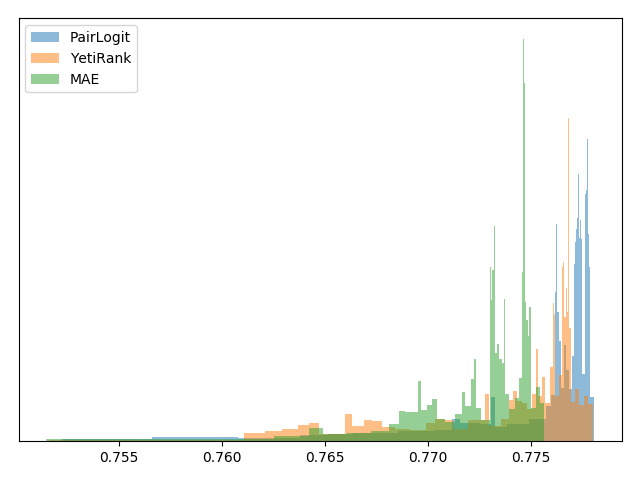
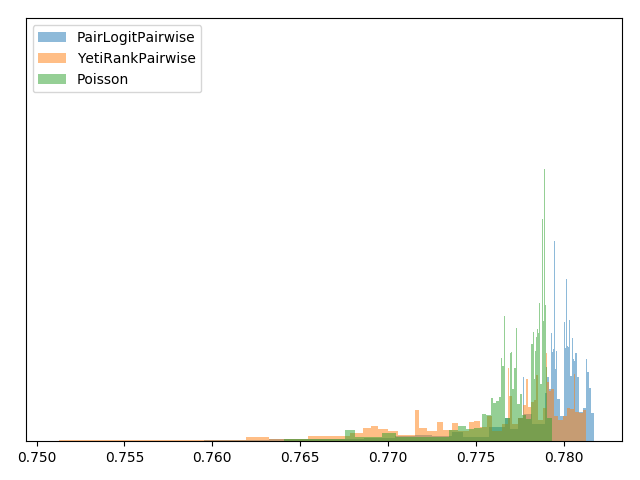
Report 3. IMAT + more metrics

diff --git a/practice_1/main.py b/practice_1/main.py
@@ -1,7 +1,7 @@
 #!/usr/bin/env python3.7
 import csv
 import catboost
-# from catboost import CatBoost, MetricVisualizer, CatBoostClassifier
+from catboost import CatBoost, MetricVisualizer, CatBoostClassifier
 from sklearn.model_selection import train_test_split
 import itertools
 import json
@@ -542,16 +542,12 @@ if __name__ == "__main__":
 
     def plot_all_ndcg():
         fig = plt.gcf()
-        model = CatBoostClassifier()
-        model.load_model('data/PairLogit.cbm')
-        plot_equal_area_bins_hist(np.array(eval_model(model)), range=(0.75, 1), alpha=0.5)
-        model = CatBoostClassifier()
-        model.load_model('data/YetiRank.cbm')
-        plot_equal_area_bins_hist(np.array(eval_model(model)), range=(0.75, 1), alpha=0.5)
-        model = CatBoostClassifier()
-        model.load_model('data/MAE.cbm')
-        plot_equal_area_bins_hist(np.array(eval_model(model)), range=(0.75, 1), alpha=0.5)
-        plt.legend(['PairLogit', 'YetiRank', 'MAE'])
+        model_names = ['PairLogit', 'PairLogitPairwise', 'YetiRank', 'YetiRankPairwise', 'MAE', 'Poisson', 'RMSE']
+        for name in model_names:
+            model = CatBoostClassifier()
+            model.load_model(f'data/{name}.cbm')
+            plot_equal_area_bins_hist(np.array(eval_model(model)), range=(0.75, 1), alpha=0.5)
+        plt.legend(model_names)
         plt.show()
         plt.draw()
         fig.savefig('imat2009_ndcg@20.png')
@@ -559,21 +555,29 @@ if __name__ == "__main__":
 
 
     # split_imat_learning_to_catboost()
-    make_dataset("data/task2.tsv")
+    # make_dataset("data/task2.tsv")
 
-    # model = CatBoost({'loss_function': 'PairLogit', 'custom_metric': ['NDCG:top=20']})
+    # model = CatBoost({'loss_function': 'PairLogitPairwise', 'custom_metric': ['NDCG:top=20']})
     # fit_model(model)
-    # model.save_model('data/PairLogit.cbm')
+    # model.save_model('data/PairLogitPairwise.cbm')
     #
-    # model = CatBoost({'loss_function': 'YetiRank', 'custom_metric': ['NDCG:top=20']})
+    # model = CatBoost({'loss_function': 'YetiRankPairwise', 'custom_metric': ['NDCG:top=20']})
     # fit_model(model)
-    # model.save_model('data/YetiRank.cbm')
-    #
+    # model.save_model('data/YetiRankPairwise.cbm')
+
     # model = CatBoost({'loss_function': 'MAE', 'custom_metric': ['NDCG:top=20']})
     # fit_model(model)
     # model.save_model('data/MAE.cbm')
 
-    # plot_all_ndcg()
+    # model = CatBoost({'loss_function': 'Poisson', 'custom_metric': ['NDCG:top=20']})
+    # fit_model(model)
+    # model.save_model('data/Poisson.cbm')
+
+    # model = CatBoost({'loss_function': 'RMSE', 'custom_metric': ['NDCG:top=20']})
+    # fit_model(model)
+    # model.save_model('data/RMSE.cbm')
+
+    plot_all_ndcg()
     # task2()
 
     # imat_test_to_catboost()

diff --git a/report_3.md b/report_3.md
@@ -1,0 +1,34 @@
+# Машинное обучение ранжированию (LETOR)
+
+## Обучение модели ранжирования на данных [“Интернет-математика 2009”](https://academy.yandex.ru/events/data_analysis/grant2009/)
+
+Данные представляли собой пары запрос-документ с идентификатором запроса, 245 неизвестными численными признаками и значением релевантности этой пары.
+
+Модель обучалась с помощью библиотеки [CatBoost](https://catboost.ai).
+
+Сперва данные были разбиты на три части:
+* 45% train, использованные для обучения
+* 5% validate, для преждевременной остановки при обучении модели
+* 50% holdout, по которым выбиралась лучшая модель
+
+Попробовал семь метрик:
+* три поточечные: MAE, Poisson и RMSE
+* две pairwise: PairLogit и PairLogitPairwise
+* две groupwise: YetiRank и YetiRankPairwise
+
+Значения NDCG@20 обученных моделей, посчитанные на holdout сете:
+
+| Метрика, по которой обучалась модель | Среднее | Медиана |
+|--------------------------------------|---------|---------|
+| MAE                                  | 0.773   | 0.771   |
+| RMSE                                 | 0.776   | 0.775   |
+| Poisson                              | 0.777   | 0.776   |
+| PairLogit                            | 0.776   | 0.773   |
+| PairLogitPairwise                    | 0.78    | 0.77    |
+| YetiRank                             | 0.774   | 0.772   |
+| YetiRankPairwise                     | 0.777   | 0.774   |
+
+![NDCG@20](practice_1/imat2009_ndcg@20.png)
+
+По результатам на holdout сете была выбрана модель, оптимизирующая метрику PairLogitPairwise.
+
